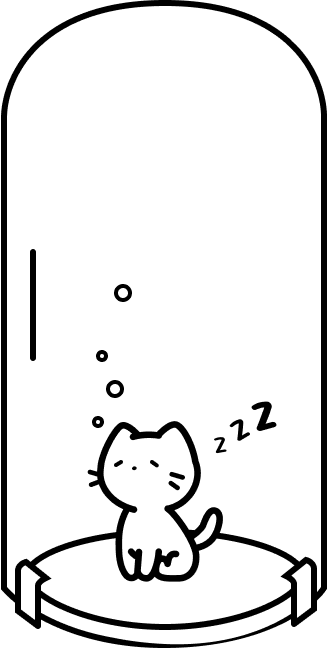
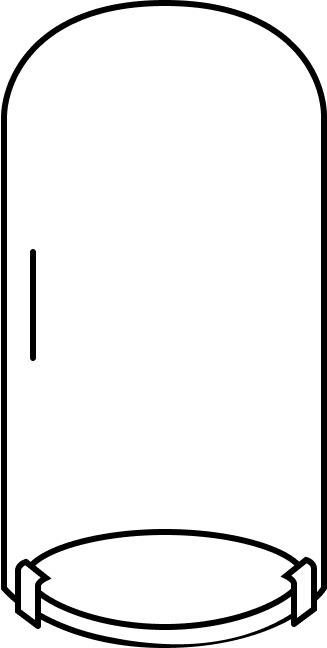
empty water when pump activated

diff --git a/Assets/TankController.cs b/Assets/TankController.cs
@@ -9,6 +9,8 @@ public class TankController : MonoBehaviour, IPointerDownHandler, IPointerEnterH
     public GameObject TankCap;
     public GameObject TankCapHighlighted;
     public GameObject TankCapPressed;
+    public GameObject Water;
+    public PumpController Pump;
 
     // internal state
     private bool isPressed = false;
@@ -20,6 +22,7 @@ public class TankController : MonoBehaviour, IPointerDownHandler, IPointerEnterH
     void Start()
     {
         SetState(0);
+        Pump.OnPumpReady += OnPumpReady;
     }
 
     void SetState(int state)
@@ -89,5 +92,12 @@ public class TankController : MonoBehaviour, IPointerDownHandler, IPointerEnterH
             Coroutine = ReleaseAfterDelay(3f);
             StartCoroutine(Coroutine);
         }
+    }
+
+    public void OnPumpReady(bool _)
+    {
+        StopCoroutine(Coroutine);
+        SetState(2);
+        Water.SetActive(false);
     }
 }

diff --git a/Assets/PumpController.cs b/Assets/PumpController.cs
@@ -15,6 +15,9 @@ public class PumpController : MonoBehaviour
     // internal state
     private IEnumerator Coroutine;
 
+    // listeners
+    public event Action<bool> OnPumpReady;
+
     public bool IsPump1On()
     {
         return Switch.GetIsOn();
@@ -42,7 +45,7 @@ public class PumpController : MonoBehaviour
         if (IsPump1On() && IsPump2On() && IsPump3On())
         {
             Debug.Log("Pump is on");
-            // TODO: add water pumping here
+            OnPumpReady?.Invoke(true);
         }
         else
         {
